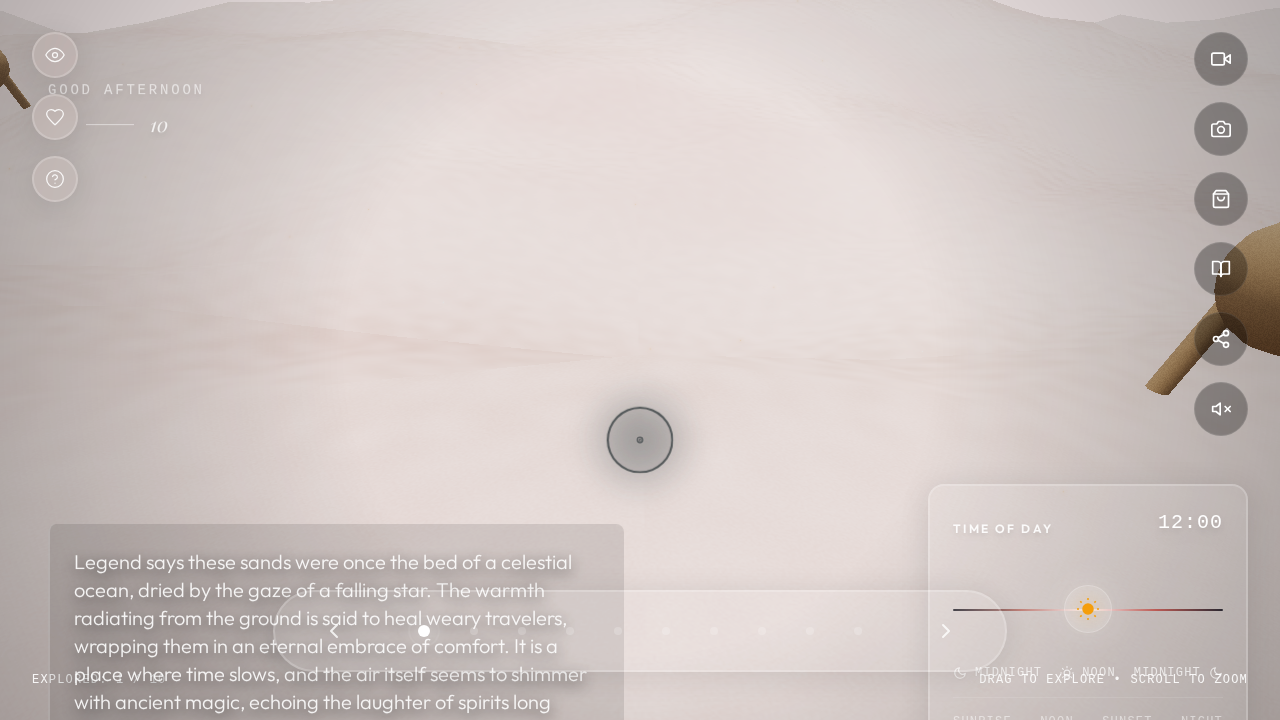
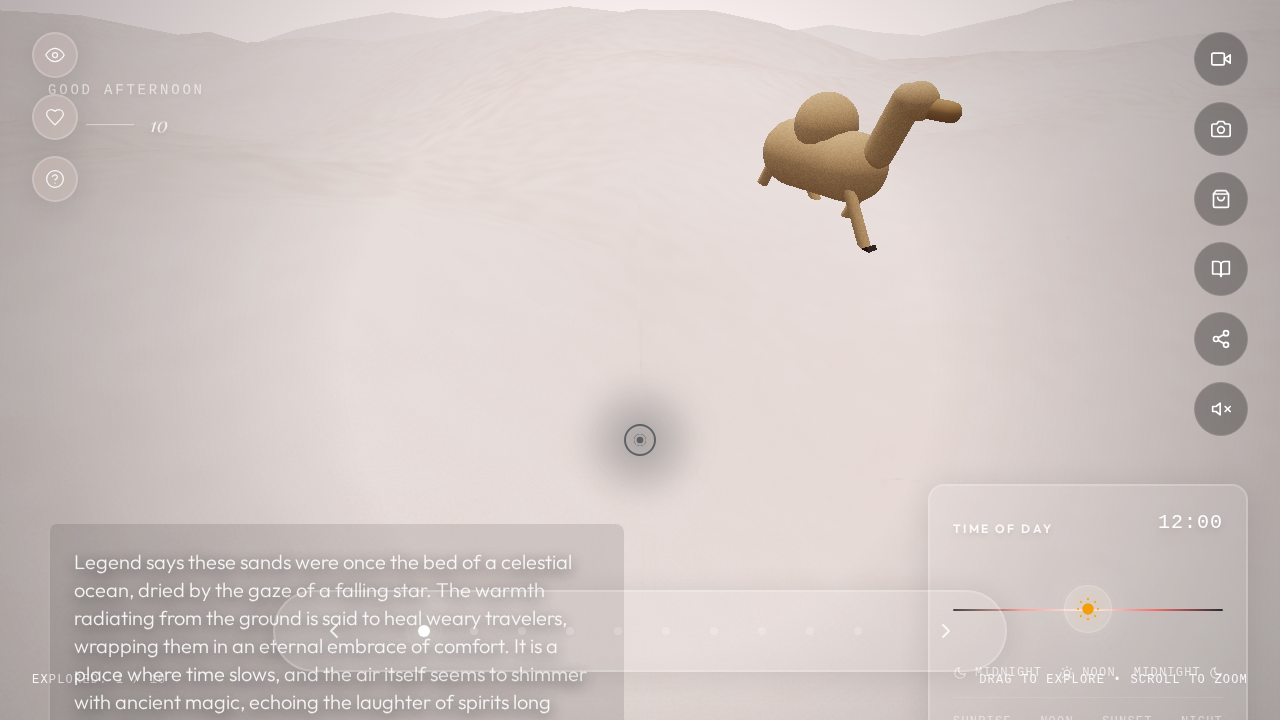
Resolve merge conflicts in PR #47: Experience.jsx indentation and binary assets

diff --git a/src/utils/colorUtils.js b/src/utils/colorUtils.js
@@ -2,7 +2,7 @@ import * as THREE from 'three'
 
 /**
  * Calculates the sky color based on the day/night cycle and desert colors.
- * Uses smoothstep interpolation for smoother transitions.
+ * Uses continuous interpolation to avoid static bands.
  * @param {number} cycle - The day/night cycle value (0 to 1).
  * @param {object} colors - The desert colors object (containing at least a 'sky' color hex/string).
  * @returns {THREE.Color} The calculated sky color.
@@ -13,46 +13,47 @@ export const getSkyColor = (cycle, colors) => {
     const dayColor = new THREE.Color(colors?.sky || '#87CEEB')
     const duskColor = new THREE.Color('#FD5E53') // Coral/Red
 
+    // Define keyframes for the sky color cycle
+    // We use a continuous loop: Night -> Dawn -> Day -> Dusk -> Night
+    // To avoid static "dead zones", we ensure color is always shifting.
+
+    // 0.0: Midnight (Deep Night)
+    // 0.25: Sunrise (Dawn)
+    // 0.5: Noon (Peak Day)
+    // 0.75: Sunset (Dusk)
+    // 1.0: Midnight (Deep Night)
+
     const color = new THREE.Color()
 
-    // Smoothstep function
-    const smoothstep = (min, max, value) => {
-        const x = Math.max(0, Math.min(1, (value - min) / (max - min)));
-        return x * x * (3 - 2 * x);
-    };
+    // Helper to blend between two colors
+    const blend = (c1, c2, t) => {
+        return color.copy(c1).lerp(c2, t)
+    }
 
-    // Cycle: 0 (Midnight) -> 0.25 (Dawn) -> 0.5 (Noon) -> 0.75 (Dusk) -> 1 (Midnight)
-
-    // 0.0 - 0.2: Night
-    if (cycle < 0.2) {
-        return color.copy(nightColor)
-    }
-    // 0.2 - 0.3: Dawn (Night to Dawn)
-    else if (cycle < 0.3) {
-        const t = smoothstep(0.2, 0.3, cycle)
-        return color.copy(nightColor).lerp(dawnColor, t)
-    }
-    // 0.3 - 0.4: Day Rise (Dawn to Day)
-    else if (cycle < 0.4) {
-        const t = smoothstep(0.3, 0.4, cycle)
-        return color.copy(dawnColor).lerp(dayColor, t)
-    }
-    // 0.4 - 0.6: Day
-    else if (cycle < 0.6) {
-        return color.copy(dayColor)
-    }
-    // 0.6 - 0.7: Day Set (Day to Dusk)
-    else if (cycle < 0.7) {
-        const t = smoothstep(0.6, 0.7, cycle)
-        return color.copy(dayColor).lerp(duskColor, t)
-    }
-    // 0.7 - 0.8: Dusk (Dusk to Night)
-    else if (cycle < 0.8) {
-        const t = smoothstep(0.7, 0.8, cycle)
-        return color.copy(duskColor).lerp(nightColor, t)
-    }
-    // 0.8 - 1.0: Night
-    else {
-        return color.copy(nightColor)
+    if (cycle < 0.25) {
+        // Night -> Dawn
+        // Normalize 0.0-0.25 to 0-1
+        const t = cycle / 0.25
+        // Use smoothstep for non-linear transition
+        const smoothT = t * t * (3 - 2 * t)
+        return blend(nightColor, dawnColor, smoothT)
+    } else if (cycle < 0.5) {
+        // Dawn -> Day
+        // Normalize 0.25-0.5 to 0-1
+        const t = (cycle - 0.25) / 0.25
+        const smoothT = t * t * (3 - 2 * t)
+        return blend(dawnColor, dayColor, smoothT)
+    } else if (cycle < 0.75) {
+        // Day -> Dusk
+        // Normalize 0.5-0.75 to 0-1
+        const t = (cycle - 0.5) / 0.25
+        const smoothT = t * t * (3 - 2 * t)
+        return blend(dayColor, duskColor, smoothT)
+    } else {
+        // Dusk -> Night
+        // Normalize 0.75-1.0 to 0-1
+        const t = (cycle - 0.75) / 0.25
+        const smoothT = t * t * (3 - 2 * t)
+        return blend(duskColor, nightColor, smoothT)
     }
 }

diff --git a/src/components/Terrain.jsx b/src/components/Terrain.jsx
@@ -3,7 +3,7 @@ import { useFrame } from '@react-three/fiber'
 import { useStore } from '../store'
 import { deserts } from '../data/deserts'
 import { getTerrainHeight } from '../utils/terrainUtils'
-import { createNoise2D } from 'simplex-noise'
+import { noise2D } from '../utils/noise'
 import * as THREE from 'three'
 
 export const Terrain = ({ isHeadless }) => {
@@ -17,7 +17,6 @@ export const Terrain = ({ isHeadless }) => {
   const noiseMap = useMemo(() => {
       const size = 1024;
       const data = new Uint8Array(size * size * 4);
-      const noise2D = createNoise2D();
 
       for (let i = 0; i < size; i++) {
           for (let j = 0; j < size; j++) {
@@ -91,8 +90,9 @@ export const Terrain = ({ isHeadless }) => {
 
       // Function to create ripples
       float ripple(vec2 uv, float time) {
-          float wave = sin(uv.x * 40.0 + uv.y * 20.0 + time * 0.5);
-          // Modulate with noise to break regularity
+          // Distort domain with noise for organic look
+          float n = texture2D(uNoiseMap, uv * 2.0).r;
+          float wave = sin(uv.x * 30.0 + uv.y * 15.0 + time * 0.5 + n * 5.0);
           return wave;
       }
     ` + shader.fragmentShader
@@ -144,7 +144,8 @@ export const Terrain = ({ isHeadless }) => {
       float baseRough = roughnessFactor;
 
       // Add variation: some grains are shiny
-      float sparkle = step(0.95, rNoise); // Top 5% brightest noise points are sparkles
+      // Use smoothstep to avoid aliasing artifacts
+      float sparkle = smoothstep(0.94, 0.98, rNoise);
 
       roughnessFactor = mix(baseRough, 0.2, sparkle * 0.5);
 
@@ -186,7 +187,6 @@ export const Terrain = ({ isHeadless }) => {
     const geo = new THREE.PlaneGeometry(100, 100, segments, segments)
     const count = geo.attributes.position.count
     const colors = new Float32Array(count * 3)
-    const noise2D = createNoise2D();
 
     for (let i = 0; i < count; i++) {
         const x = geo.attributes.position.getX(i);
@@ -241,17 +241,9 @@ export const Terrain = ({ isHeadless }) => {
     }
 
     // Check animations...
-    let colorSettled = true;
     if (shaderRef.current) {
-        const cLow = shaderRef.current.uniforms.uColorLow.value;
-        const cHigh = shaderRef.current.uniforms.uColorHigh.value;
-        const tLow = new THREE.Color(desert.colors.groundLow);
-        const tHigh = new THREE.Color(desert.colors.groundHigh);
-        if (Math.abs(cLow.r - tLow.r) + Math.abs(cLow.g - tLow.g) + Math.abs(cLow.b - tLow.b) > 0.01) colorSettled = false;
-        if (Math.abs(cHigh.r - tHigh.r) + Math.abs(cHigh.g - tHigh.g) + Math.abs(cHigh.b - tHigh.b) > 0.01) colorSettled = false;
+        // Just updating uniforms every frame is cheap enough
     }
-
-    const roughnessSettled = Math.abs(material.roughness - targetRoughness) < 0.01;
 
     // Note: We don't stop animating if uTime is updating, but we only calculate vertices if needed
 

diff --git a/src/components/CreatureManager.jsx b/src/components/CreatureManager.jsx
@@ -30,15 +30,25 @@ export const CreatureManager = () => {
     creatureRefs.current = creatureRefs.current.slice(0, creatures.length);
   }, [creatures]);
 
-  // Idle animation: bobbing
-  useFrame((state) => {
+  // Idle animation: bobbing & terrain following
+  useFrame((state, delta) => {
+      if (!desert) return
       const time = state.clock.getElapsedTime();
       creatureRefs.current.forEach((ref, i) => {
-          if (ref && ref.userData && ref.userData.baseY !== undefined) {
-              // Gentle bobbing, offset by index to avoid sync
-              // Only bob if we are "settled" (roughly)
-              // Actually, just add sine to base Y
-              ref.position.y = ref.userData.baseY + Math.sin(time * 2 + i) * 0.1;
+          // If creature is exiting (animated by GSAP), don't override Y
+          if (ref && !ref.userData?.isExiting) {
+              // Target height on new terrain
+              const targetY = getTerrainHeight(ref.position.x, ref.position.z, desert.terrainParams)
+
+              // Smoothly interpolate current base height to target height
+              // This prevents snapping and matches terrain morph speed (~delta * 3)
+              const currentBaseY = ref.userData.baseY || ref.position.y;
+              const newBaseY = THREE.MathUtils.lerp(currentBaseY, targetY, delta * 3);
+
+              ref.userData.baseY = newBaseY;
+
+              // Apply height + bobbing
+              ref.position.y = newBaseY + Math.sin(time * 2 + i) * 0.1;
           }
       });
   });
@@ -84,12 +94,15 @@ export const CreatureManager = () => {
     // Animate Out existing creatures
     const activeRefs = creatureRefs.current.filter(Boolean)
     if (activeRefs.length > 0) {
+         // Mark as exiting to disable useFrame updates
+         activeRefs.forEach(ref => { if (ref.userData) ref.userData.isExiting = true })
+
          // Animate each creature down
          const positions = activeRefs.map(r => r.position)
          const scales = activeRefs.map(r => r.scale)
 
          gsap.to(positions, {
-             y: (i, target) => activeRefs[i].userData.baseY - 2,
+             y: (i) => (activeRefs[i].userData.baseY || 0) - 2,
              duration: 0.5,
              ease: "power2.in",
              stagger: 0.05

diff --git a/src/components/Experience.jsx b/src/components/Experience.jsx
@@ -77,9 +77,9 @@ export const Experience = ({ onReady }) => {
     if (directionalLightRef.current) {
         directionalLightRef.current.position.set(x, y, z)
 
-        // Intensity changes: Peak at noon, 0 at midnight
-        const intensity = Math.max(0, dayness)
-        directionalLightRef.current.intensity = intensity * 1.5 // Increased slightly for punchiness
+        // Intensity changes: Peak at noon, min 0.1 at midnight (Moonlight)
+        const intensity = 0.1 + Math.max(0, dayness) * 1.4
+        directionalLightRef.current.intensity = intensity
 
         // Color temperature shift
         const sunMix = Math.pow(dayness, 2)
@@ -89,7 +89,7 @@ export const Experience = ({ onReady }) => {
 
     if (ambientLightRef.current) {
         // Ambient light should be brighter during day, dimmer at night but not 0
-        ambientLightRef.current.intensity = 0.1 + dayness * 0.4
+        ambientLightRef.current.intensity = 0.2 + dayness * 0.4
     }
   })
 
@@ -103,13 +103,13 @@ export const Experience = ({ onReady }) => {
       {!isHeadless && (
           <EffectComposer disableNormalPass multisampling={0}>
             <SMAA />
-            <Bloom luminanceThreshold={0.9} mipmapBlur intensity={0.8} radius={0.6} />
+            <Bloom luminanceThreshold={0.9} mipmapBlur intensity={0.6} radius={0.6} />
             <DepthOfField
                 focusDistance={0.025} // Focus around 10-15 units away
                 focalLength={0.02} // 20mm wide angle
                 bokehScale={4} // Strong bokeh
             />
-            <Noise opacity={0.03} /> {/* Subtle film grain */}
+            <Noise opacity={0.02} /> {/* Subtle film grain */}
             <Vignette eskil={false} offset={0.05} darkness={0.5} />
           </EffectComposer>
       )}

diff --git a/src/utils/terrainUtils.js b/src/utils/terrainUtils.js
@@ -1,7 +1,4 @@
-import { createNoise2D } from 'simplex-noise';
-
-// Create a single instance of noise to be shared or recreated if needed.
-const noise2D = createNoise2D();
+import { noise2D } from './noise';
 
 /**
  * Calculates the height of the terrain at a given x, z coordinate using Fractal Brownian Motion (FBM).

diff --git a/src/utils/noise.js b/src/utils/noise.js
@@ -1,0 +1,6 @@
+import { createNoise2D } from 'simplex-noise';
+
+// Create a singleton noise instance to ensure consistent results across the application
+const noise2D = createNoise2D();
+
+export { noise2D };
